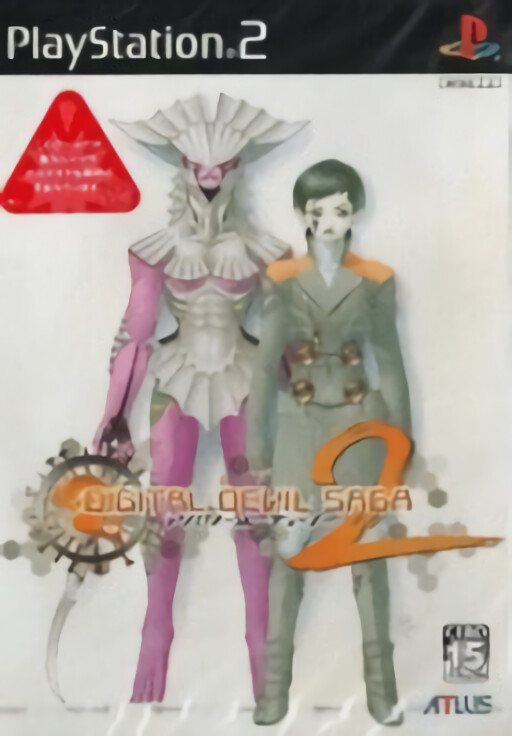
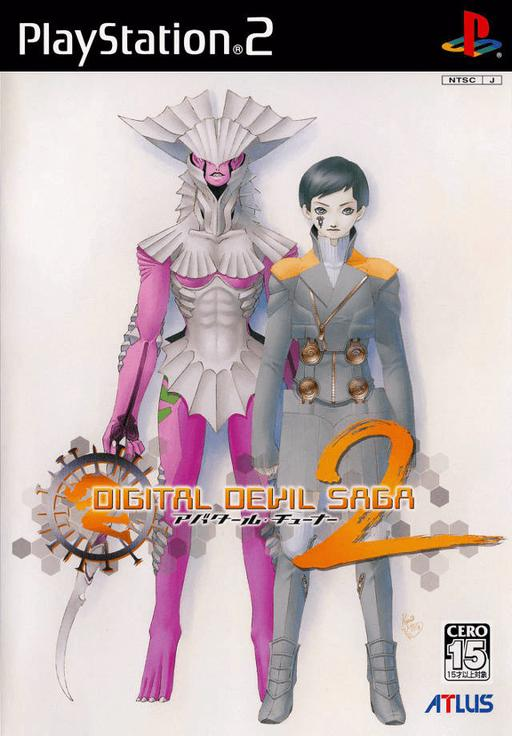
Better quality covers

diff --git a/README.md b/README.md
@@ -1,5 +1,7 @@
 *⭐**Star this repo if it was useful to you**⭐*
 
+⚠**Please report Not found | Low quality | Wrong covers**⚠
+
 - [PS2 Covers](https://github.com/xlenore/ps2-covers#ps2-covers "PS2 Covers")
 - [PCSX2 Setup](https://github.com/xlenore/ps2-covers#pcsx2-setup "PCSX2 Setup")
 - [PCSX2 Cover Downloader](https://github.com/xlenore/ps2-covers#PCSX2-Cover-Downloader)
